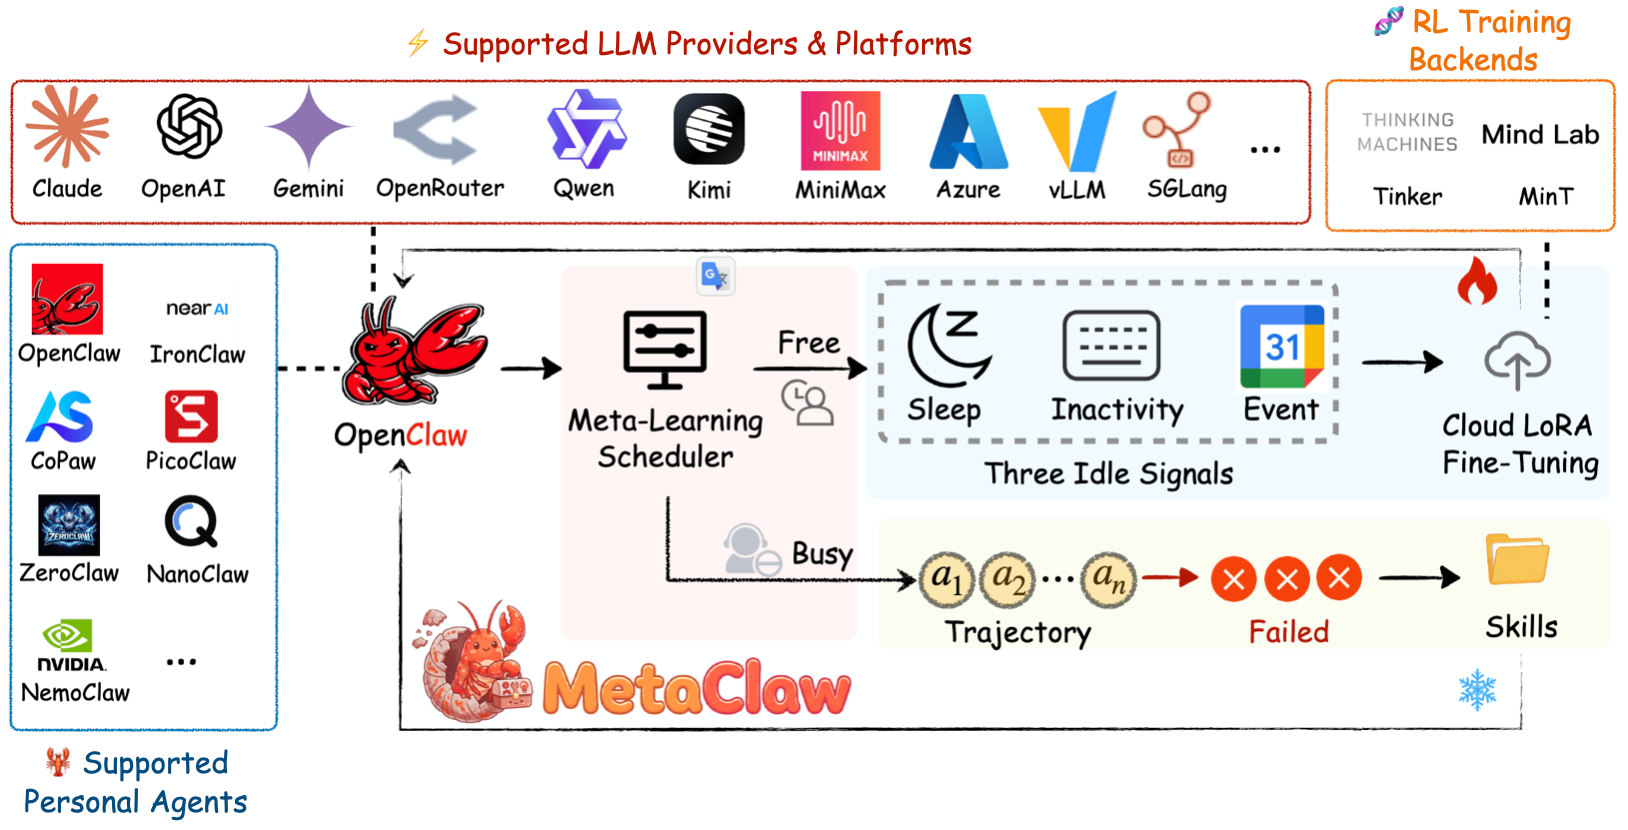
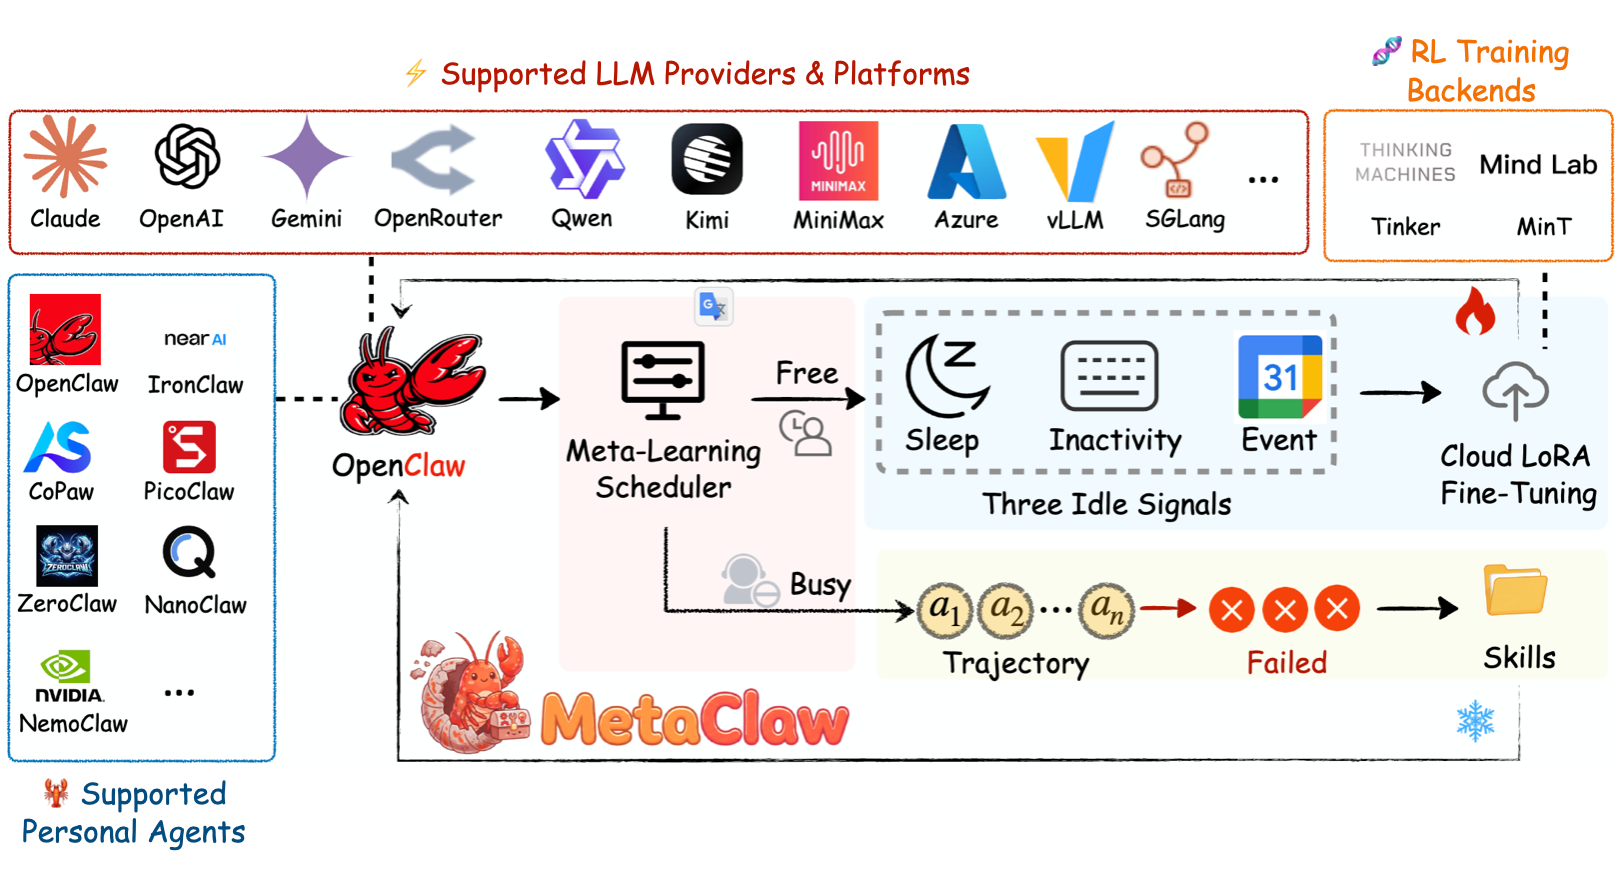
Update architecture image and shorten tagline

diff --git a/README.md b/README.md
@@ -6,7 +6,7 @@
 
 # Just talk to your agent — it learns and *EVOLVES*.
 
-<p>Inspired by how brain learns. Meta-learn and evolve your 🦞 from every conversation in the wild. No GPU required. 
+<p>Inspired by how brains learn. Meta-learn and evolve your 🦞 from every conversation in the wild. No GPU required.
   
 <br/>
 
